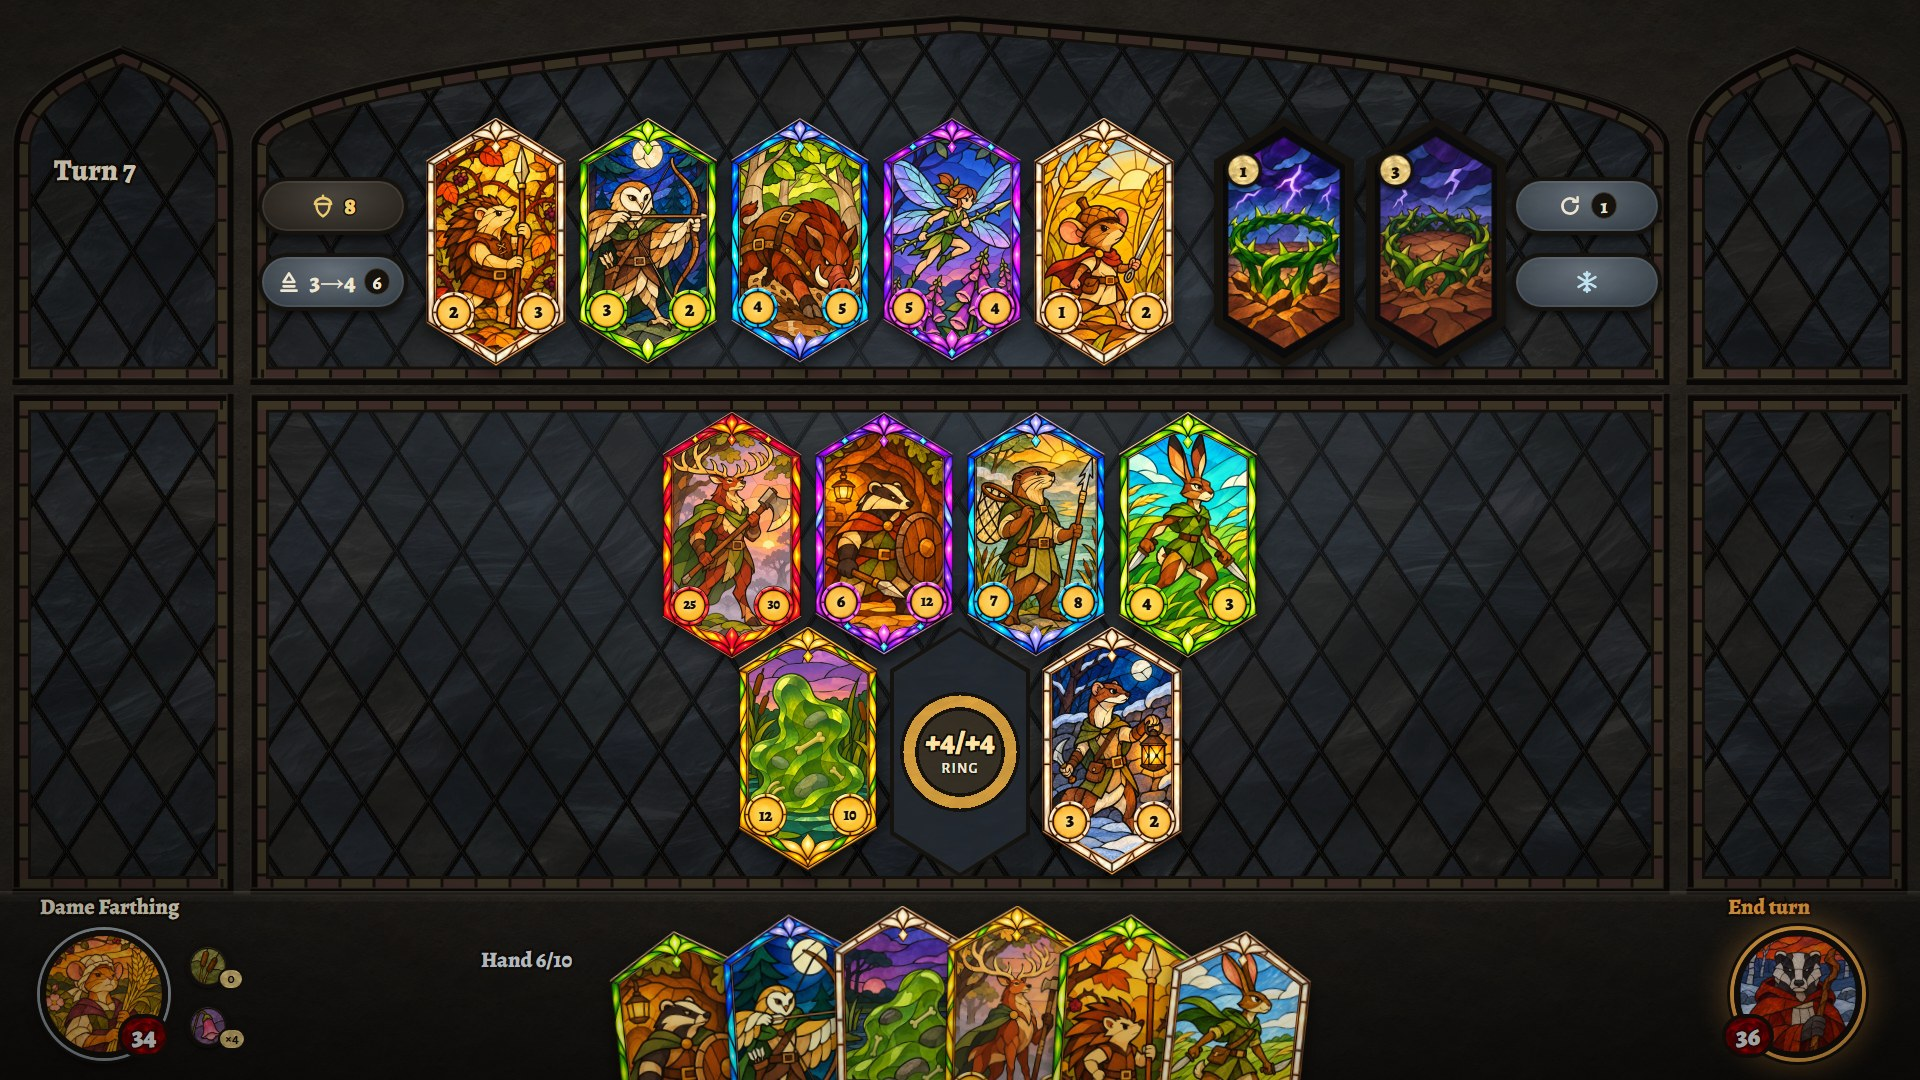
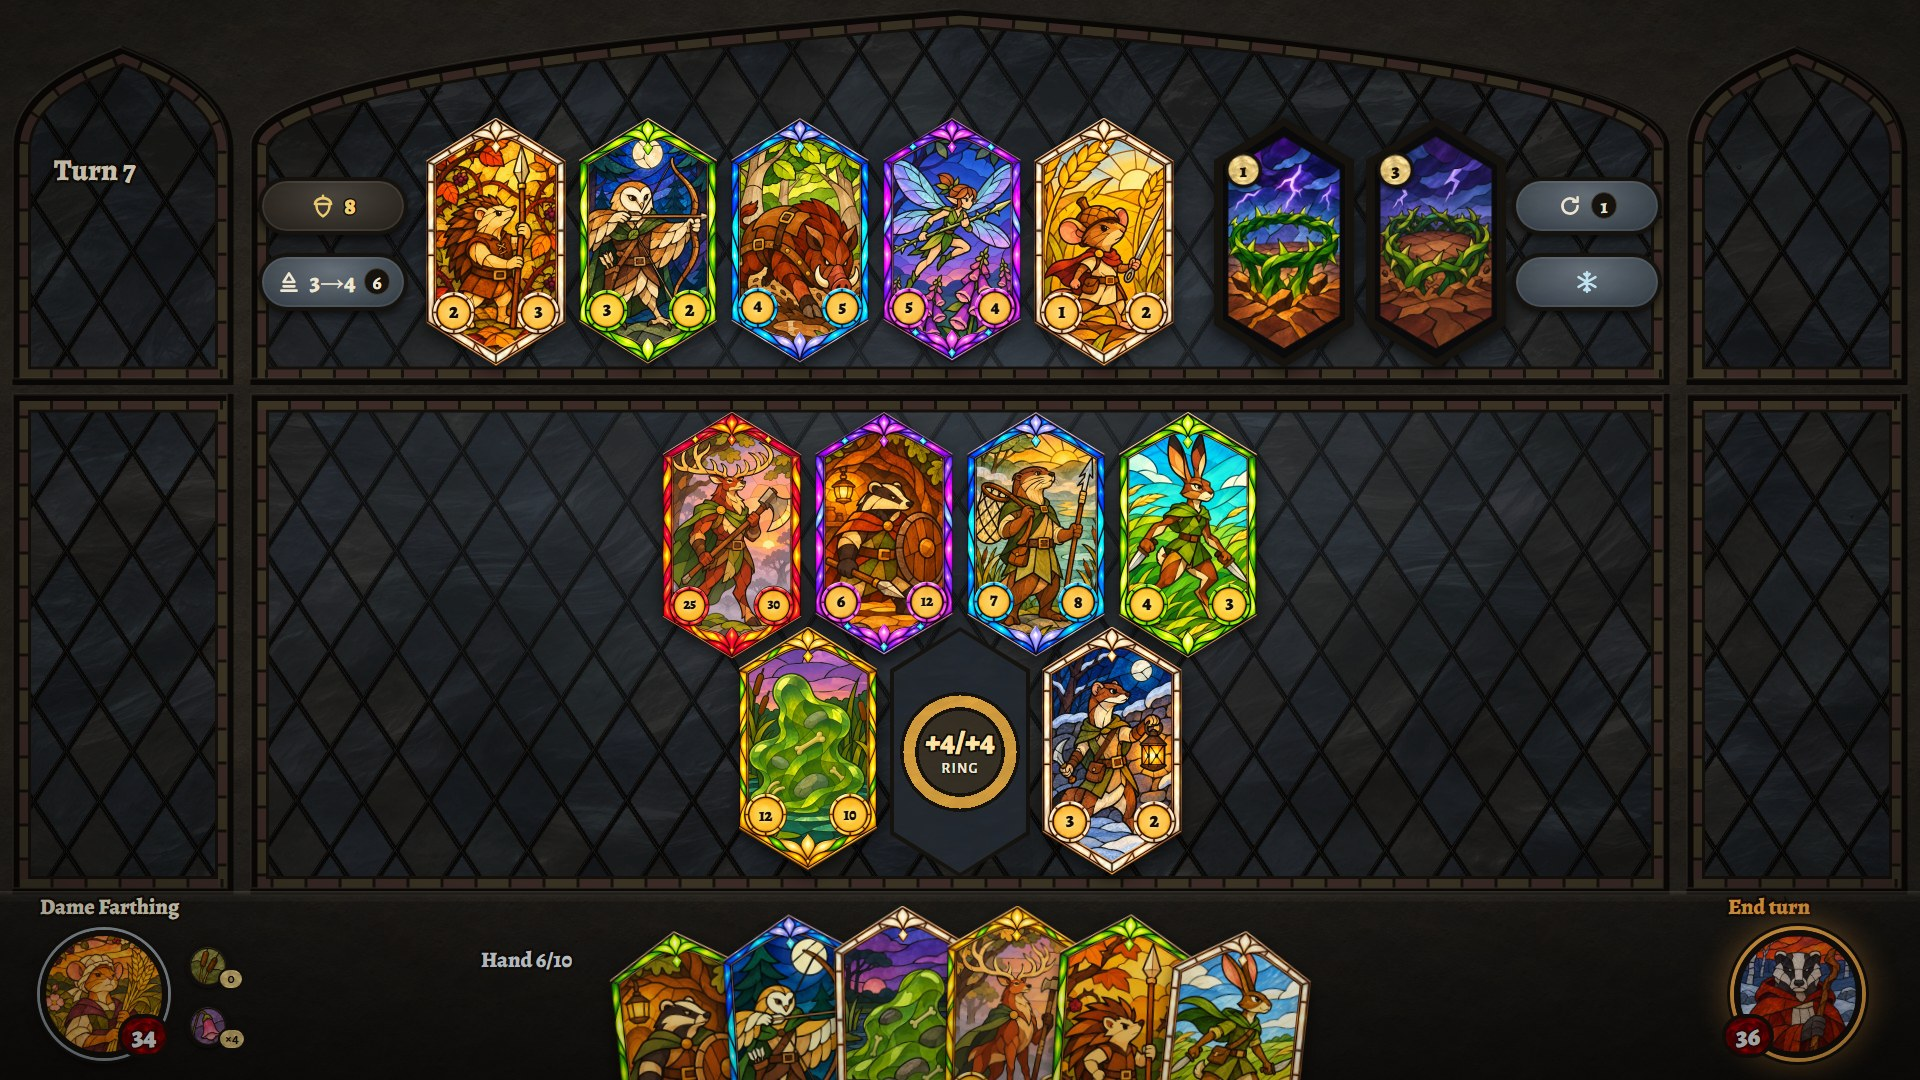
Glass mock-ups: spells as smaller hexes in a row above the shop (owner, 15 Nov)
The owner: "they'll take up a second row above ... smaller hexes, like almost regular
hexagons rather than the tall hexes. That way we can have the shop be centered ... two
spells ... on either side of the third card, basically, but above."

The 5 units are centred; each spell (0.84 wide to 1 tall, about half a unit's height) sits
over the gap beside the middle unit, its lower slopes in the notch between two units.
The first layout stays as a switch for comparison.

Changed region(s): [[0.1875, 0.0, 0.8125, 0.0917], [0.8125, 0.0917, 0.8438, 0.1222]]

diff --git a/docs/design/art-direction/mockups/recruit.html b/docs/design/art-direction/mockups/recruit.html
@@ -85,8 +85,9 @@ html,body{margin:0;background:var(--page);color:var(--bartext);font-family:var(-
 <div class="bar">
   <h1>Recruit screen</h1>
   <div class="grp">Card size <button data-k="size" data-v="a">212 px tall</button><button data-k="size" data-v="b">250 px tall</button></div>
+  <div class="grp">Spells <button data-k="spells" data-v="above">Row above</button><button data-k="spells" data-v="inline">In the shop row</button></div>
   <div class="grp">Leaderboard <button data-k="lb" data-v="0">Hidden</button><button data-k="lb" data-v="1">Shown</button></div>
-  <div class="grp">Hover <button data-k="hover" data-v="">None</button><button data-k="hover" data-v="b0">Board card</button><button data-k="hover" data-v="s2">Shop card</button></div>
+  <div class="grp">Hover <button data-k="hover" data-v="">None</button><button data-k="hover" data-v="b0">Board card</button><button data-k="hover" data-v="s2">Shop card</button><button data-k="hover" data-v="s5">Spell</button></div>
   <div class="note">Real frames, recipe art and per-tier number discs. Stand-ins: the two spells (no spell frame yet), hover text, names and numbers. The art is the art session's test set, not decided units.</div>
 </div>
 <div id="box"><div id="stage"></div></div>
@@ -94,7 +95,7 @@ html,body{margin:0;background:var(--page);color:var(--bartext);font-family:var(-
 <script src="card.js"></script>
 <script>
 const Q = new URLSearchParams(location.search);
-const S = { size: Q.get("size") || "a", lb: Q.get("lb") || "0", hover: Q.get("hover") ?? "" };
+const S = { size: Q.get("size") || "a", spells: Q.get("spells") || "above", lb: Q.get("lb") || "0", hover: Q.get("hover") ?? "" };
 if (Q.has("shot")) document.documentElement.classList.add("shot");
 
 // ---- the game state shown (stand-in numbers; the art is the recipe's test set) ----
@@ -134,18 +135,19 @@ const LOBBY = [
 const BYID = Object.fromEntries([...SHOP, ...BOARD.filter(Boolean), ...HAND].map(c => [c.id, c]));
 
 // ---- geometry: everything follows the card height H ----
-function geom(H) {
-  const W = H * 0.56, g = 12, sg = 28;            // gap between cards; extra gap before the spells
-  const handShow = 0.7 * H;                        // how much of a hand card stands above the screen's edge
+function geom(H, above) {
+  const W = H * 0.56, g = 12, sg = 28;            // gap between cards; extra gap before in-line spells
+  const SH = 0.52 * H, SW = 0.84 * SH;             // spells above the shop: almost regular hexes (owner, 15 Nov)
+  const handShow = (above ? 0.57 : 0.7) * H;      // how much of a hand card stands above the screen's edge
   const handTop = 1080 - handShow, sill = handTop - 14;
   const boardH = H + 0.83 * H + 8;                 // the back row nests 0.17 H into the front row
   const boardBot = sill - 14, boardTop = boardBot - boardH;
   const T1 = boardTop - 14, T0 = T1 - 16;          // stone transom
   const shopBot = T0 - 14, shopTop = shopBot - H;
-  const shopW = 7 * W + 5 * g + sg;
+  const shopW = above ? 5 * W + 4 * g : 7 * W + 5 * g + sg;
   const shopL = 960 - shopW / 2;
   const sideW = 214, cL = 16 + sideW + 24, cR = 1904 - sideW - 24;
-  return { H, W, g, sg, handTop, sill, boardTop, boardBot, T0, T1, shopTop, shopBot, shopL, shopW, cL, cR, sideW };
+  return { H, W, g, sg, SH, SW, above, handTop, sill, boardTop, boardBot, T0, T1, shopTop, shopBot, shopL, shopW, cL, cR, sideW };
 }
 
 // the stone window: three lights, each an arch over a transom, and a sill (after tools/gen_stone.py)
@@ -156,7 +158,7 @@ function arch(x0, x1, ys, ya, yb) {
 function stone(G) {
   const rect = (x0, y0, x1, y1) => `M${x0},${y0} H${x1} V${y1} H${x0} Z`;
   const ys = Math.max(G.shopTop + 30, 90), ysSide = 150;
-  const L = [[16, 16 + G.sideW, ysSide, 50], [G.cL, G.cR, ys, 18], [1904 - G.sideW, 1904, ysSide, 50]];
+  const L = [[16, 16 + G.sideW, ysSide, 50], [G.cL, G.cR, ys, 12], [1904 - G.sideW, 1904, ysSide, 50]];
   const holes = L.map(([x0, x1, s, a]) => arch(x0, x1, s, a, G.T0) + " " + rect(x0, G.T1, x1, G.sill)).join(" ");
   const all = `M0,0 H1920 V1080 H0 Z ${holes}`;
   return `<svg class="a" style="left:0;top:0" width="1920" height="1080" viewBox="0 0 1920 1080" xmlns="http://www.w3.org/2000/svg">
@@ -185,14 +187,21 @@ function place(el, x, y) { el.style.left = x + "px"; el.style.top = y + "px"; re
 function html(s) { const d = document.createElement("div"); d.innerHTML = s.trim(); return d.firstChild; }
 
 function render() {
-  const H = S.size === "b" ? 250 : 212, G = geom(H), st = document.getElementById("stage");
+  const H = S.size === "b" ? 250 : 212, G = geom(H, S.spells === "above"), st = document.getElementById("stage");
   st.innerHTML = `<div id="field"></div><div id="light"></div>` + stone(G);
   const cards = [];
   const put = (c, x, y) => { const el = Cards.make({ ...c, h: H }); place(el, x, y); st.append(el); cards.push(el); return el; };
 
-  // shop: 5 units, then 2 spells, with its buttons on either side
+  // shop: 5 units with its buttons on either side; the 2 spells either in the row or above it
   let x = G.shopL;
-  SHOP.forEach((c, i) => { if (i === 5) x += G.sg; put(c, x, G.shopTop); x += G.W + G.g; });
+  if (G.above) {
+    // each spell sits over the gap either side of the middle unit, its lower point in the notch between two units
+    SHOP.slice(0, 5).forEach(c => { put(c, x, G.shopTop); x += G.W + G.g; });
+    SHOP.slice(5).forEach((c, k) => {
+      const gx = G.shopL + (k + 2) * (G.W + G.g) - G.g / 2, bottom = G.shopTop + 0.17 * H - 6;
+      const el = Cards.make({ ...c, spell: "hex", h: G.SH }); place(el, gx - G.SW / 2, bottom - G.SH); st.append(el); cards.push(el);
+    });
+  } else SHOP.forEach((c, i) => { if (i === 5) x += G.sg; put(c, x, G.shopTop); x += G.W + G.g; });
   const bw = 150, bxL = G.shopL - 18 - bw, bxR = G.shopL + G.shopW + 18, by1 = G.shopTop + H / 2 - 66, by2 = by1 + 76;
   st.append(place(html(`<div class="btn gold" style="width:${bw}px">${ICON.gold}<b>8</b></div>`), bxL, by1));
   st.append(place(html(`<div class="btn" style="width:${bw}px">${ICON.tier}3→4<span class="pip">6</span></div>`), bxL, by2));
@@ -253,7 +262,7 @@ function render() {
     const c = BYID[el.dataset.id]; if (!c) return;
     const big = 1.6 * H, bigW = big * 0.56;
     tip.innerHTML = "";
-    tip.append(Cards.make({ ...c, h: big }));
+    tip.append(Cards.make({ ...c, h: c.spell && G.above ? big * 0.6 : big, spell: c.spell ? (G.above ? "hex" : true) : false }));
     tip.append(html(`<div class="txt"><div class="n">${c.name}</div><div class="m">${c.spell ? "Spell · costs " + c.cost : "Tier " + c.tier + " · unit"}</div><div class="r">Rules text goes here, in one or two short lines.</div></div>`));
     let tx = mx + 28, ty = my - big / 2;
     if (tx + bigW + 320 > 1900) tx = mx - 28 - bigW - 316;

diff --git a/docs/design/art-direction/mockups/card.js b/docs/design/art-direction/mockups/card.js
@@ -12,6 +12,7 @@
   const pct = (x, y) => `${(x / U.w * 100).toFixed(3)}% ${(y / U.h * 100).toFixed(3)}%`;
   // the card's outer outline (frame-lab/art-space.md)
   const OUTLINE = [[280, 0], [560, 170], [560, 830], [280, 1000], [0, 830], [0, 170]];
+  const HEX_CLIP = "polygon(50% 0%,100% 25%,100% 75%,50% 100%,0% 75%,0% 25%)";
 
   async function load() {
     const d = window.CARD_DATA; // assets/card-data.js, made by tools/art/mockups/prep_assets.py
@@ -33,10 +34,11 @@
     return el;
   }
 
+  // spell: "tall" (the unit's 0.56 hex) or "hex" (an almost regular hex, 0.84 wide to 1 tall; owner's idea, 15 Nov)
   function make({ tier, art, attack, health, h, spell = false, cost = null, id = "" }) {
-    const w = h * U.w / U.h;
+    const w = spell === "hex" ? h * 0.84 : h * U.w / U.h;
     const el = document.createElement("div");
-    el.className = "card" + (spell ? " spell" : "");
+    el.className = "card" + (spell ? " spell" + (spell === "hex" ? " hexsp" : "") : "");
     el.dataset.tier = tier;
     if (id) el.dataset.id = id;
     el.style.width = w + "px";
@@ -44,7 +46,7 @@
     const img = document.createElement("div");
     img.className = "art";
     img.style.backgroundImage = `url(${art})`;
-    img.style.clipPath = spell ? C.outlineClip : C.artClip;
+    img.style.clipPath = spell === "hex" ? HEX_CLIP : spell ? C.outlineClip : C.artClip;
     el.append(img);
     if (spell) {
       // STAND-IN: there is no spell frame yet. A plain lead outline and a cost disc.
@@ -55,7 +57,7 @@
         const c = document.createElement("span");
         c.className = "cost";
         c.textContent = cost;
-        c.style.fontSize = (h * 0.075).toFixed(1) + "px";
+        c.style.fontSize = (h * (spell === "hex" ? 0.11 : 0.075)).toFixed(1) + "px";
         el.append(c);
       }
       return el;

diff --git a/docs/design/art-direction/mockups/card.css b/docs/design/art-direction/mockups/card.css
@@ -12,3 +12,7 @@
 .card .cost{position:absolute;left:8%;top:21%;width:26%;aspect-ratio:1;transform:translateY(-50%);border-radius:50%;
   display:grid;place-items:center;font-family:Alegreya,Georgia,serif;font-weight:900;color:#150e08;
   background:url(assets/ui/rd-cream.png) center/112% auto,#e8dcc0;border:3px solid #16120e;box-shadow:0 2px 4px rgba(0,0,0,.6)}
+/* STAND-IN spell as an almost regular hex (owner's idea, 15 Nov): the same lead outline and cost disc */
+.card.hexsp .art{inset:5% 5.5%;background-size:cover;background-position:center 45%}
+.card.hexsp .spell-lead{clip-path:polygon(50% 0%,100% 25%,100% 75%,50% 100%,0% 75%,0% 25%)}
+.card.hexsp .cost{left:-2%;top:27%;width:32%}

diff --git a/docs/design/art-direction/mockups/README.md b/docs/design/art-direction/mockups/README.md
@@ -2,13 +2,16 @@
 
 Higher-fidelity screens built from the real pieces: the six locked tier frames, fighter art made by the card art recipe, and Attack and Health drawn on each tier's own discs. Plan: [../../../workstreams/glass-mockups.md](../../../workstreams/glass-mockups.md). Nothing here is decided; the owner judges it.
 
-Open `recruit.html` or `cards.html` straight from disk in a browser. The switches above the recruit screen choose the card size, the leaderboard and a pinned hover. `?shot` hides them.
+Open `recruit.html` or `cards.html` straight from disk in a browser. The switches above the recruit screen choose the card size, where the spells go, the leaderboard and a pinned hover. `?shot` hides them.
 
 ## Screens
 
 | Shot | What it shows |
 |---|---|
-| [recruit-212.jpg](shots/recruit-212.jpg) | Recruit screen, cards 212 px tall (the first mock-up's card height) |
+| [recruit-250-spells-above.jpg](shots/recruit-250-spells-above.jpg) | Spells in a row above the shop as smaller, almost regular hexes, each over the gap beside the middle unit; the 5 units centred (owner's idea, 15 Nov). Cards 250 px tall |
+| [recruit-212-spells-above.jpg](shots/recruit-212-spells-above.jpg) | The same with cards 212 px tall |
+| [recruit-250-spells-above-hover.jpg](shots/recruit-250-spells-above-hover.jpg) | Spells above, a spell hovered, leaderboard shown |
+| [recruit-212.jpg](shots/recruit-212.jpg) | Spells in the shop row (the first layout), cards 212 px tall (the first mock-up's card height) |
 | [recruit-250.jpg](shots/recruit-250.jpg) | The same with cards 250 px tall |
 | [recruit-250-leaderboard-hover.jpg](shots/recruit-250-leaderboard-hover.jpg) | 250 px, leaderboard shown, a board card hovered |
 | [recruit-212-leaderboard-hover.jpg](shots/recruit-212-leaderboard-hover.jpg) | 212 px, leaderboard shown, a shop card hovered |
@@ -34,7 +37,7 @@ Screenshots: `tools/art/mockups/shot.sh <page> "<query>" <out.png> [height]` (he
 
 ## Stand-ins
 
-- **Spells:** no spell frame exists yet. The two shop spells are the recipe's spell picture in a plain lead outline with a cost disc.
+- **Spells:** no spell frame exists yet. The two shop spells are the recipe's spell picture in a plain lead outline with a cost disc, in the unit's tall shape or, above the shop, an almost regular hex (0.84 wide to 1 tall, about half a unit's height).
 - **Names, numbers and hover text:** placeholders. The art is the art session's test set (12 subjects, two runs each, from `window-art-test/margin-8` on the Optiplex), not decided units.
 - **The window, stone, buttons, portraits, empty slot, Ring slot, the hero's two chips and the fanned hand** are the first glass mock-up's, with the window redrawn to fit the new card sizes. The hand count reads /10, the rulebook's hand limit (7.1.1); the first mock-up said /7.
 

diff --git a/docs/workstreams/glass-mockups.md b/docs/workstreams/glass-mockups.md
@@ -1,9 +1,9 @@
 # Plan: higher-fidelity UI mock-ups in stained glass
 
 <!-- status -->
-- **In short:** The recruit screen is built with the real frames and art, at two card sizes. Waiting for you to look at it and pick a size.
+- **In short:** The recruit screen is built with the real frames and art, at two card sizes, with the spells now in a row above the shop. Waiting for you to pick a size.
 - **Status:** waiting on you
-- **Last step done:** Step 2, the recruit screen at two card sizes with the card sheet (15 Nov 2026).
+- **Last step done:** Your first refinement: spells as smaller hexes in a row above the shop (15 Nov 2026).
 - **Next step:** Your reaction to the recruit screen (step 3).
 - **Waiting on you:** Is this the mock-up you wanted, and which card size? The two questions at the end are still open.
 <!-- /status -->
@@ -54,6 +54,8 @@ Not on the card, because the frames don't have them and the owner asked for Atta
 1. **Bring the pieces over.** Copy the old page and its assets, build the card art from the test set, and check every picture under every tier frame for gaps (tier 5 was redrawn after some of the art was made).
 2. **Recruit screen.** The first mock-up's layout with the new cards: the shop's 5 units and 2 spells (rulebook 6.1.1, settled 13 Nov), with gold, tier up, refresh and freeze in the shop zone; the board 4 and 3; the hand; the hero and End turn; Turn. Shown at two card sizes (see below), with the leaderboard on and off, and one card hovered. A card sheet with every tier and one- and two-digit numbers goes alongside, as a check on the number fit. **This is the first mock-up shown to the owner.**
 3. **The owner's refinements.** Whatever the owner asks for after seeing step 2.
+
+   **Spells above the shop (owner, 15 Nov 2026), tried:** "I think if we have spells in the shop, they'll take up a second row above, and maybe they won't be, maybe they'll be smaller hexes, like almost regular hexagons rather than the tall hexes. That way we can have the shop be centered. And maybe we just do, two spells in between the, on either side of the third card, basically, but above." Built as a switch, with the first layout kept beside it for comparison. The spells are about half a unit's height, 0.84 wide to 1 tall; their lower slopes match the units' roofs, so each sits in the notch between two units. To make room the hand shows a little less (57% of a card instead of 70%).
 
 Before each step is kept: screenshots of every view, and a scope review by a fresh agent.
 
